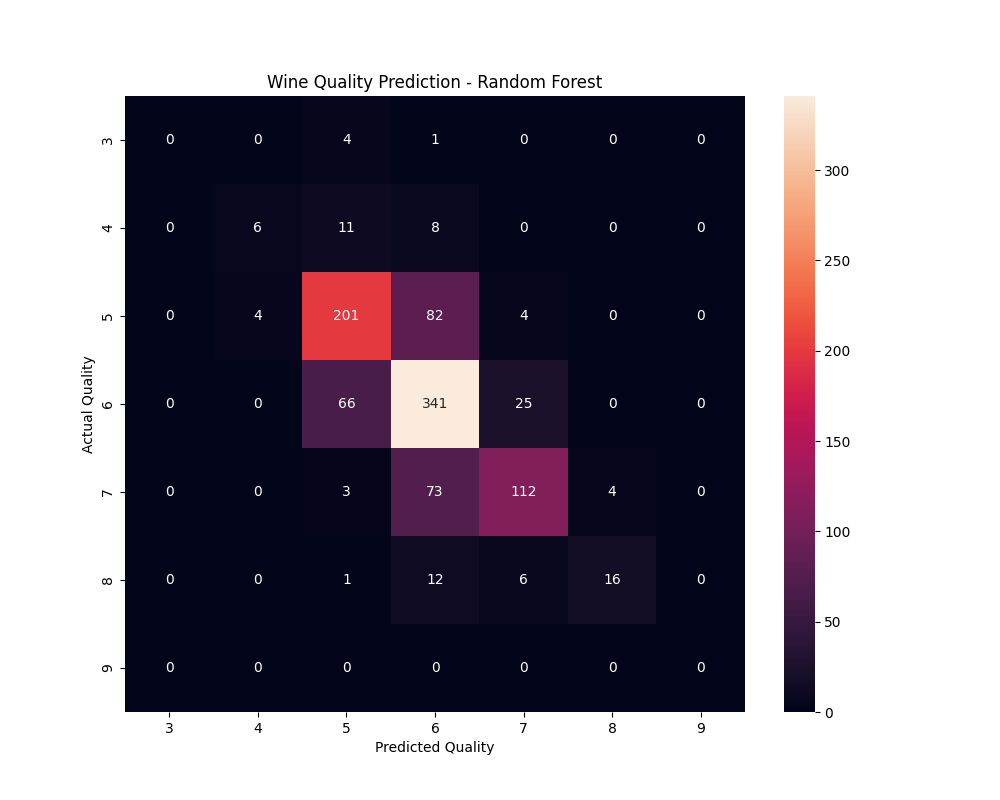
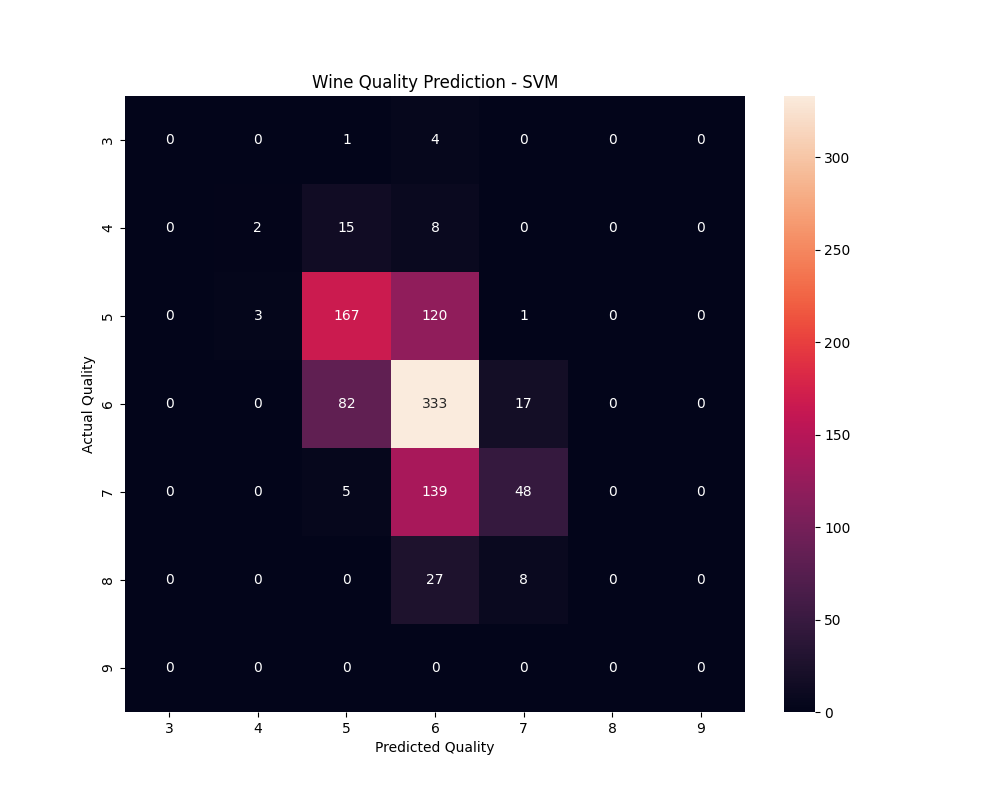
ran SVC  on data

diff --git a/train.py b/train.py
@@ -1,6 +1,7 @@
 import pandas as pd
 from sklearn.model_selection import train_test_split
-from sklearn.ensemble import RandomForestClassifier
+from sklearn.svm import SVC
+from sklearn.preprocessing import StandardScaler
 from sklearn.metrics import accuracy_score, confusion_matrix
 import json
 import seaborn as sns
@@ -8,39 +9,36 @@ import matplotlib.pyplot as plt
 
 # Load data
 df = pd.read_csv('data/wine_data_raw.csv')
-X = df.drop('quality', axis=1)  # All columns except 'quality'
-y = df['quality']  # Target variable is 'quality'
+X = df.drop('quality', axis=1)
+y = df['quality']
 
-# Split data into train and test sets
+# Split data
 X_train, X_test, y_train, y_test = train_test_split(X, y, test_size=0.2, random_state=42)
 
-# Train model
-model = RandomForestClassifier(n_estimators=100, random_state=42)
-model.fit(X_train, y_train)
+# Scale the features (important for SVM)
+scaler = StandardScaler()
+X_train_scaled = scaler.fit_transform(X_train)
+X_test_scaled = scaler.transform(X_test)
 
-# Make predictions on test set
-preds = model.predict(X_test)
+# Train model
+model = SVC(kernel='rbf', random_state=42)
+model.fit(X_train_scaled, y_train)
+
+# Make predictions
+preds = model.predict(X_test_scaled)
 
 # Save metrics
 acc = accuracy_score(y_test, preds)
 with open('metrics.json', 'w') as f:
     json.dump({'accuracy': acc}, f)
 
-# Generate and save confusion matrix plot
+# Generate confusion matrix plot
 cm = confusion_matrix(y_test, preds, labels=model.classes_)
 plt.figure(figsize=(10, 8))
 sns.heatmap(cm, annot=True, fmt='d', xticklabels=model.classes_, yticklabels=model.classes_)
 plt.xlabel('Predicted Quality')
 plt.ylabel('Actual Quality')
-plt.title('Wine Quality Prediction - Random Forest')
+plt.title('Wine Quality Prediction - SVM')
 plt.savefig('confusion_matrix.png')
 plt.close()
-
-# Print feature importance
-feature_importance = pd.DataFrame({
-    'feature': X.columns,
-    'importance': model.feature_importances_
-})
-print("\nFeature Importance:")
-print(feature_importance.sort_values('importance', ascending=False))
 
